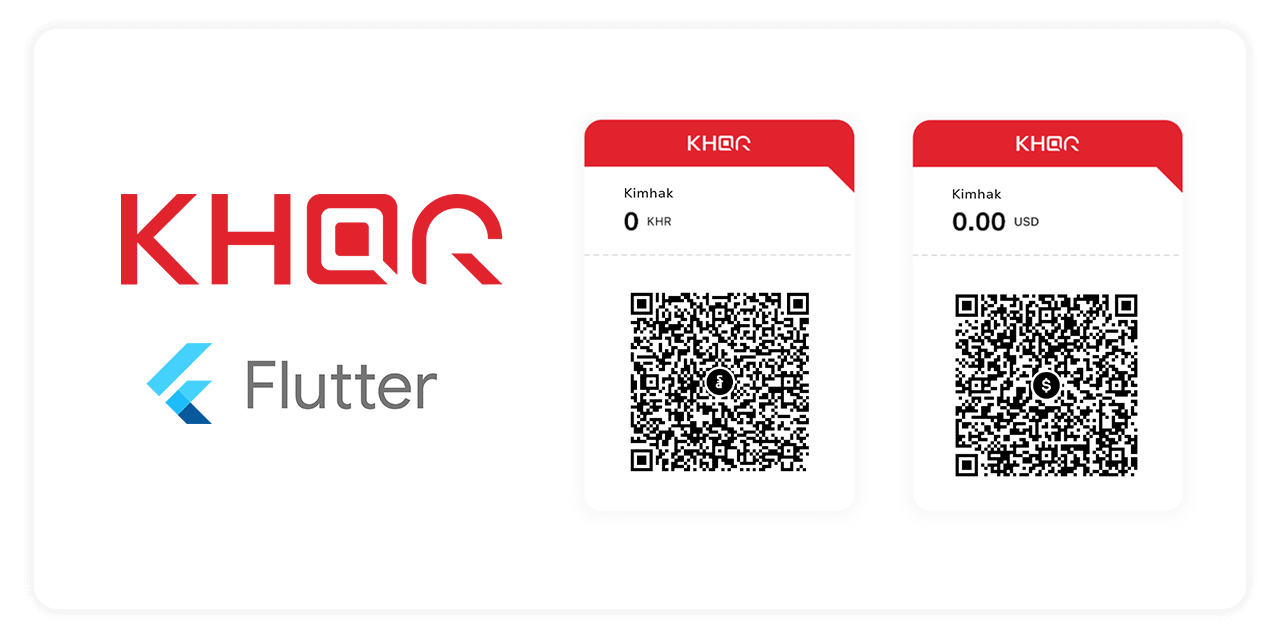
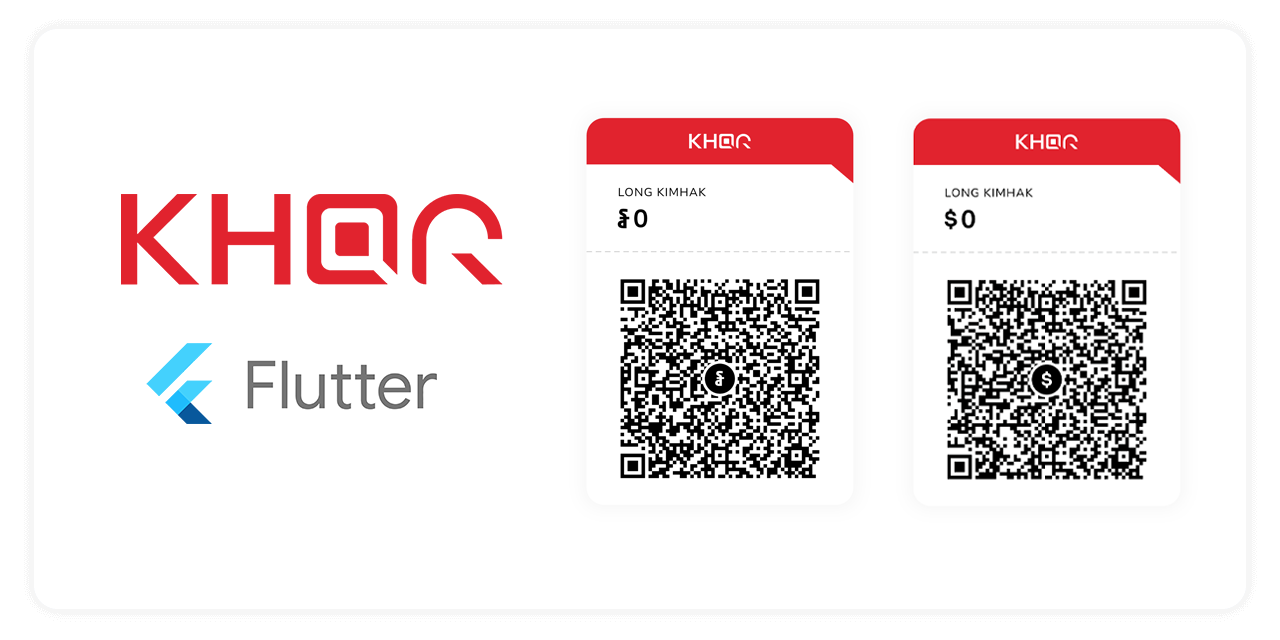
chore(docs): update CHANGELOG
Update CHANGELOG.md to reflect version 1.1.1 changes, modify receiver name in khqr_card_screen.dart, and update binary asset file khqr_sdk_preview.png

diff --git a/example/lib/khqr_card_screen.dart b/example/lib/khqr_card_screen.dart
@@ -16,7 +16,7 @@ class _KhqrCardScreenState extends State<KhqrCardScreen> {
   String? khqrContent;
   String? errorMessage;
 
-  final String _receiverName = 'Kimhak';
+  final String _receiverName = 'LONG KIMHAK';
   final KhqrCurrency _receiverCurrency = KhqrCurrency.khr;
   final double _amount = 0.00;
 

diff --git a/CHANGELOG.md b/CHANGELOG.md
@@ -1,5 +1,10 @@
 # Changelog
 
+## 1.1.1
+- Added new currency symbols
+- Improvement KHQR Card Widget
+- Updated dependencies
+
 ## 1.1.0
 - Added new feature to `Decode Non-KHQR`
 - Added expire timestamp for `Dynamic QR`
